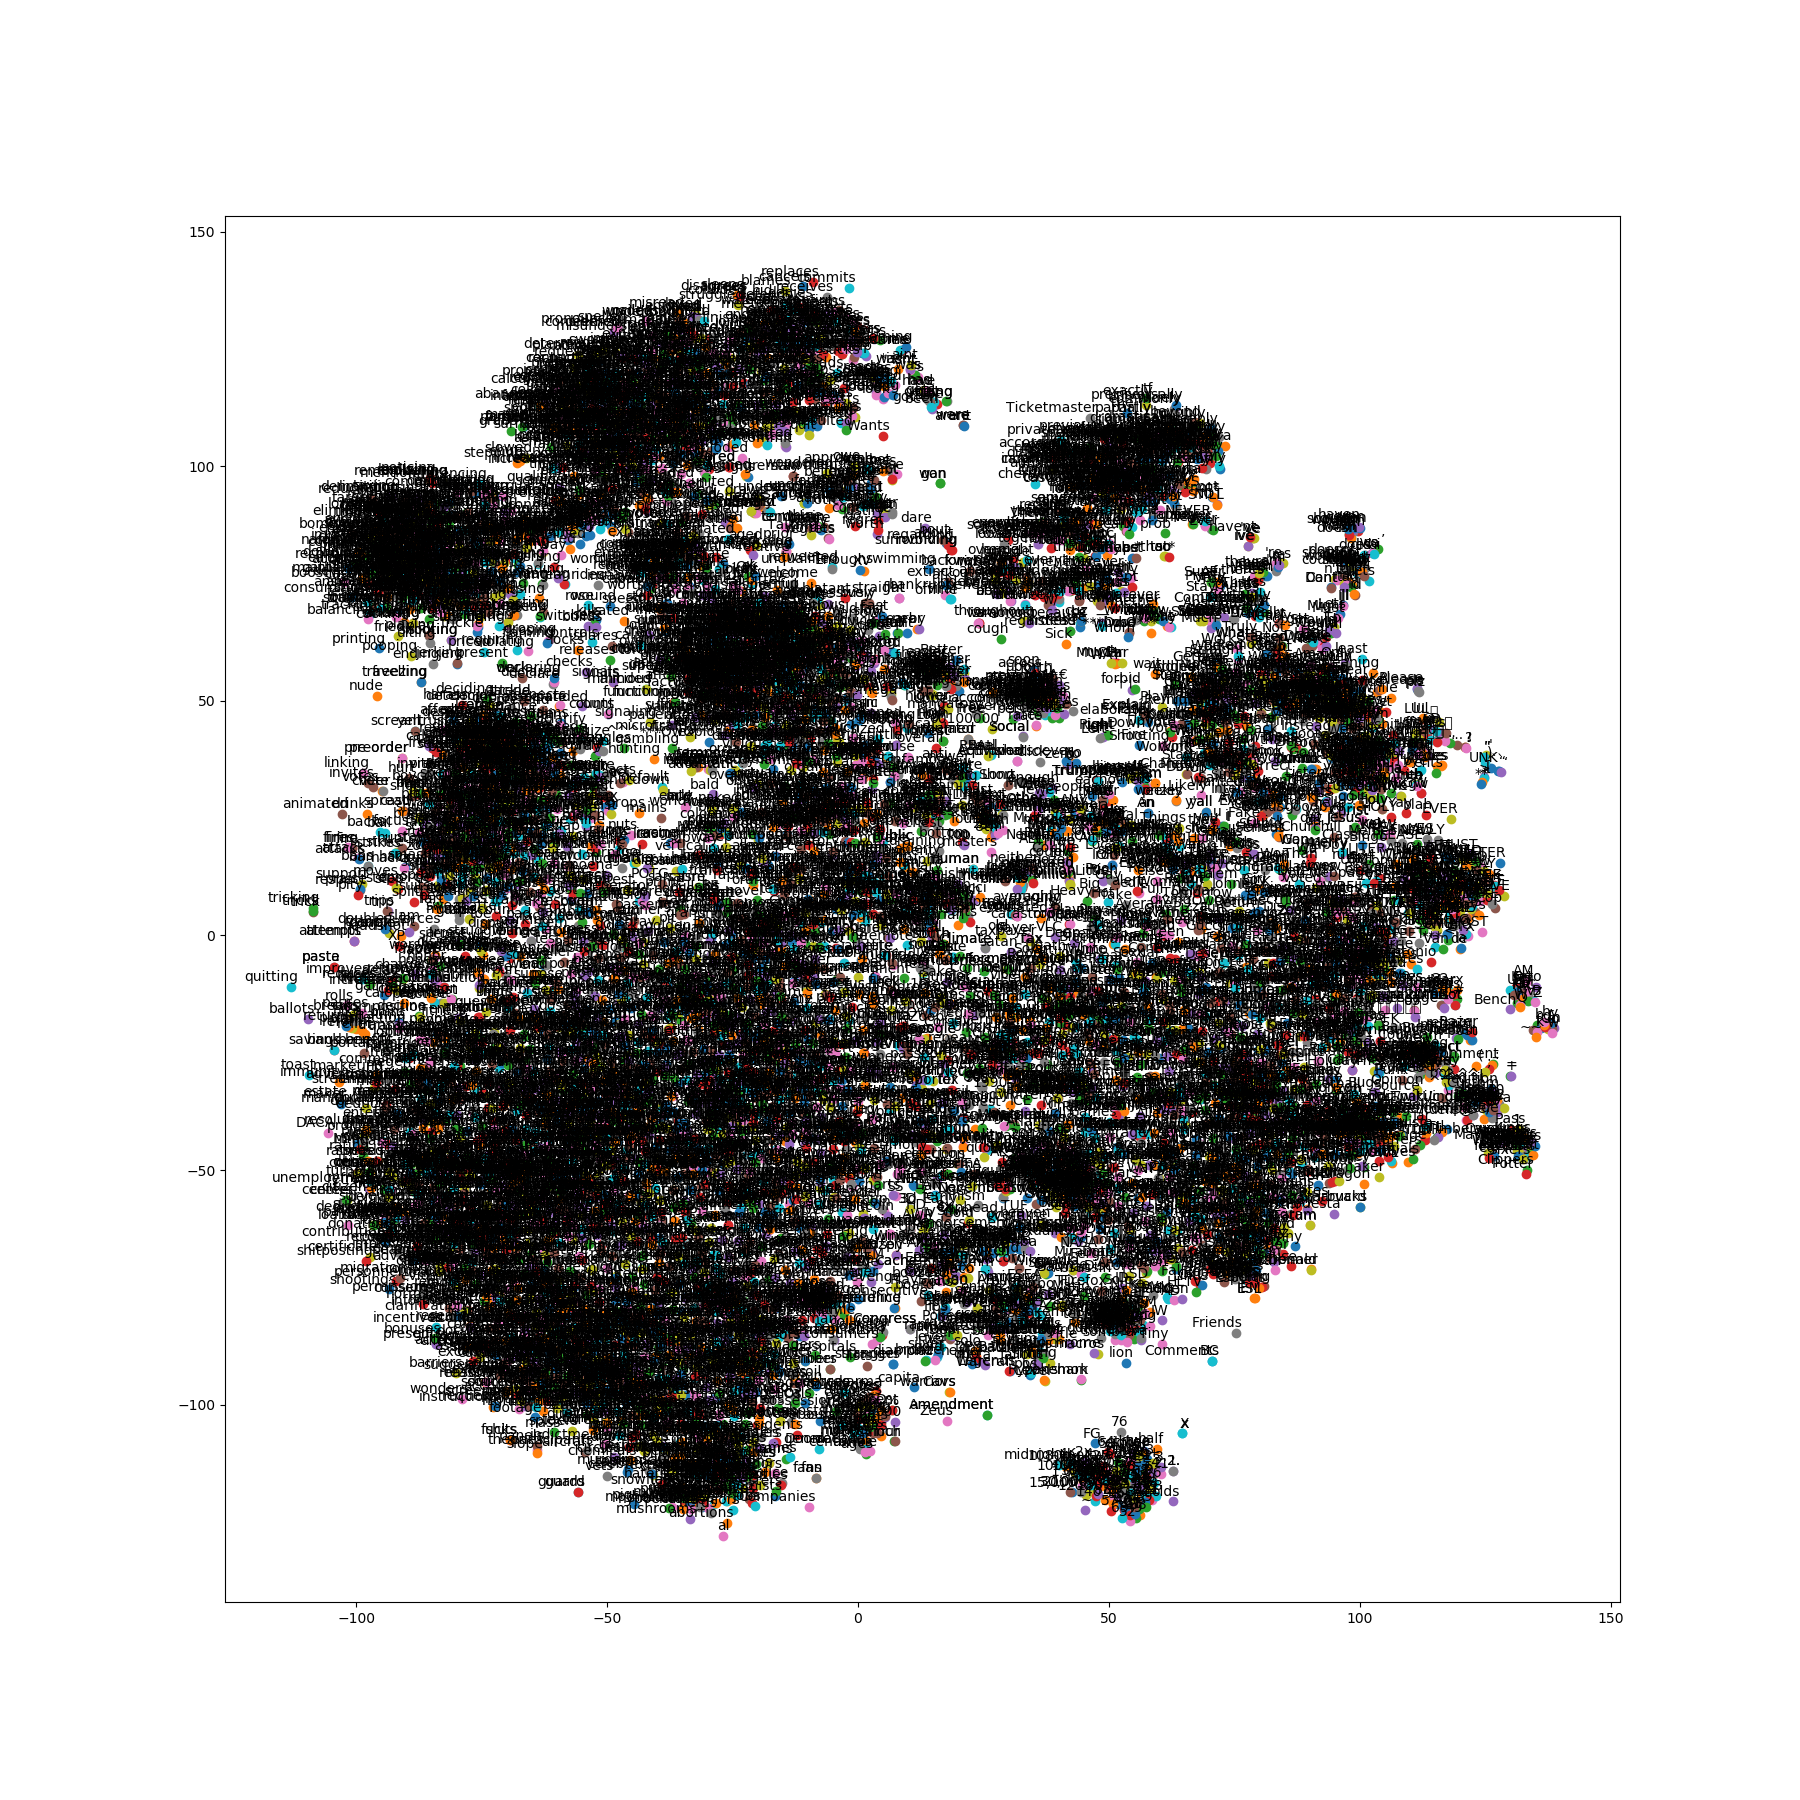
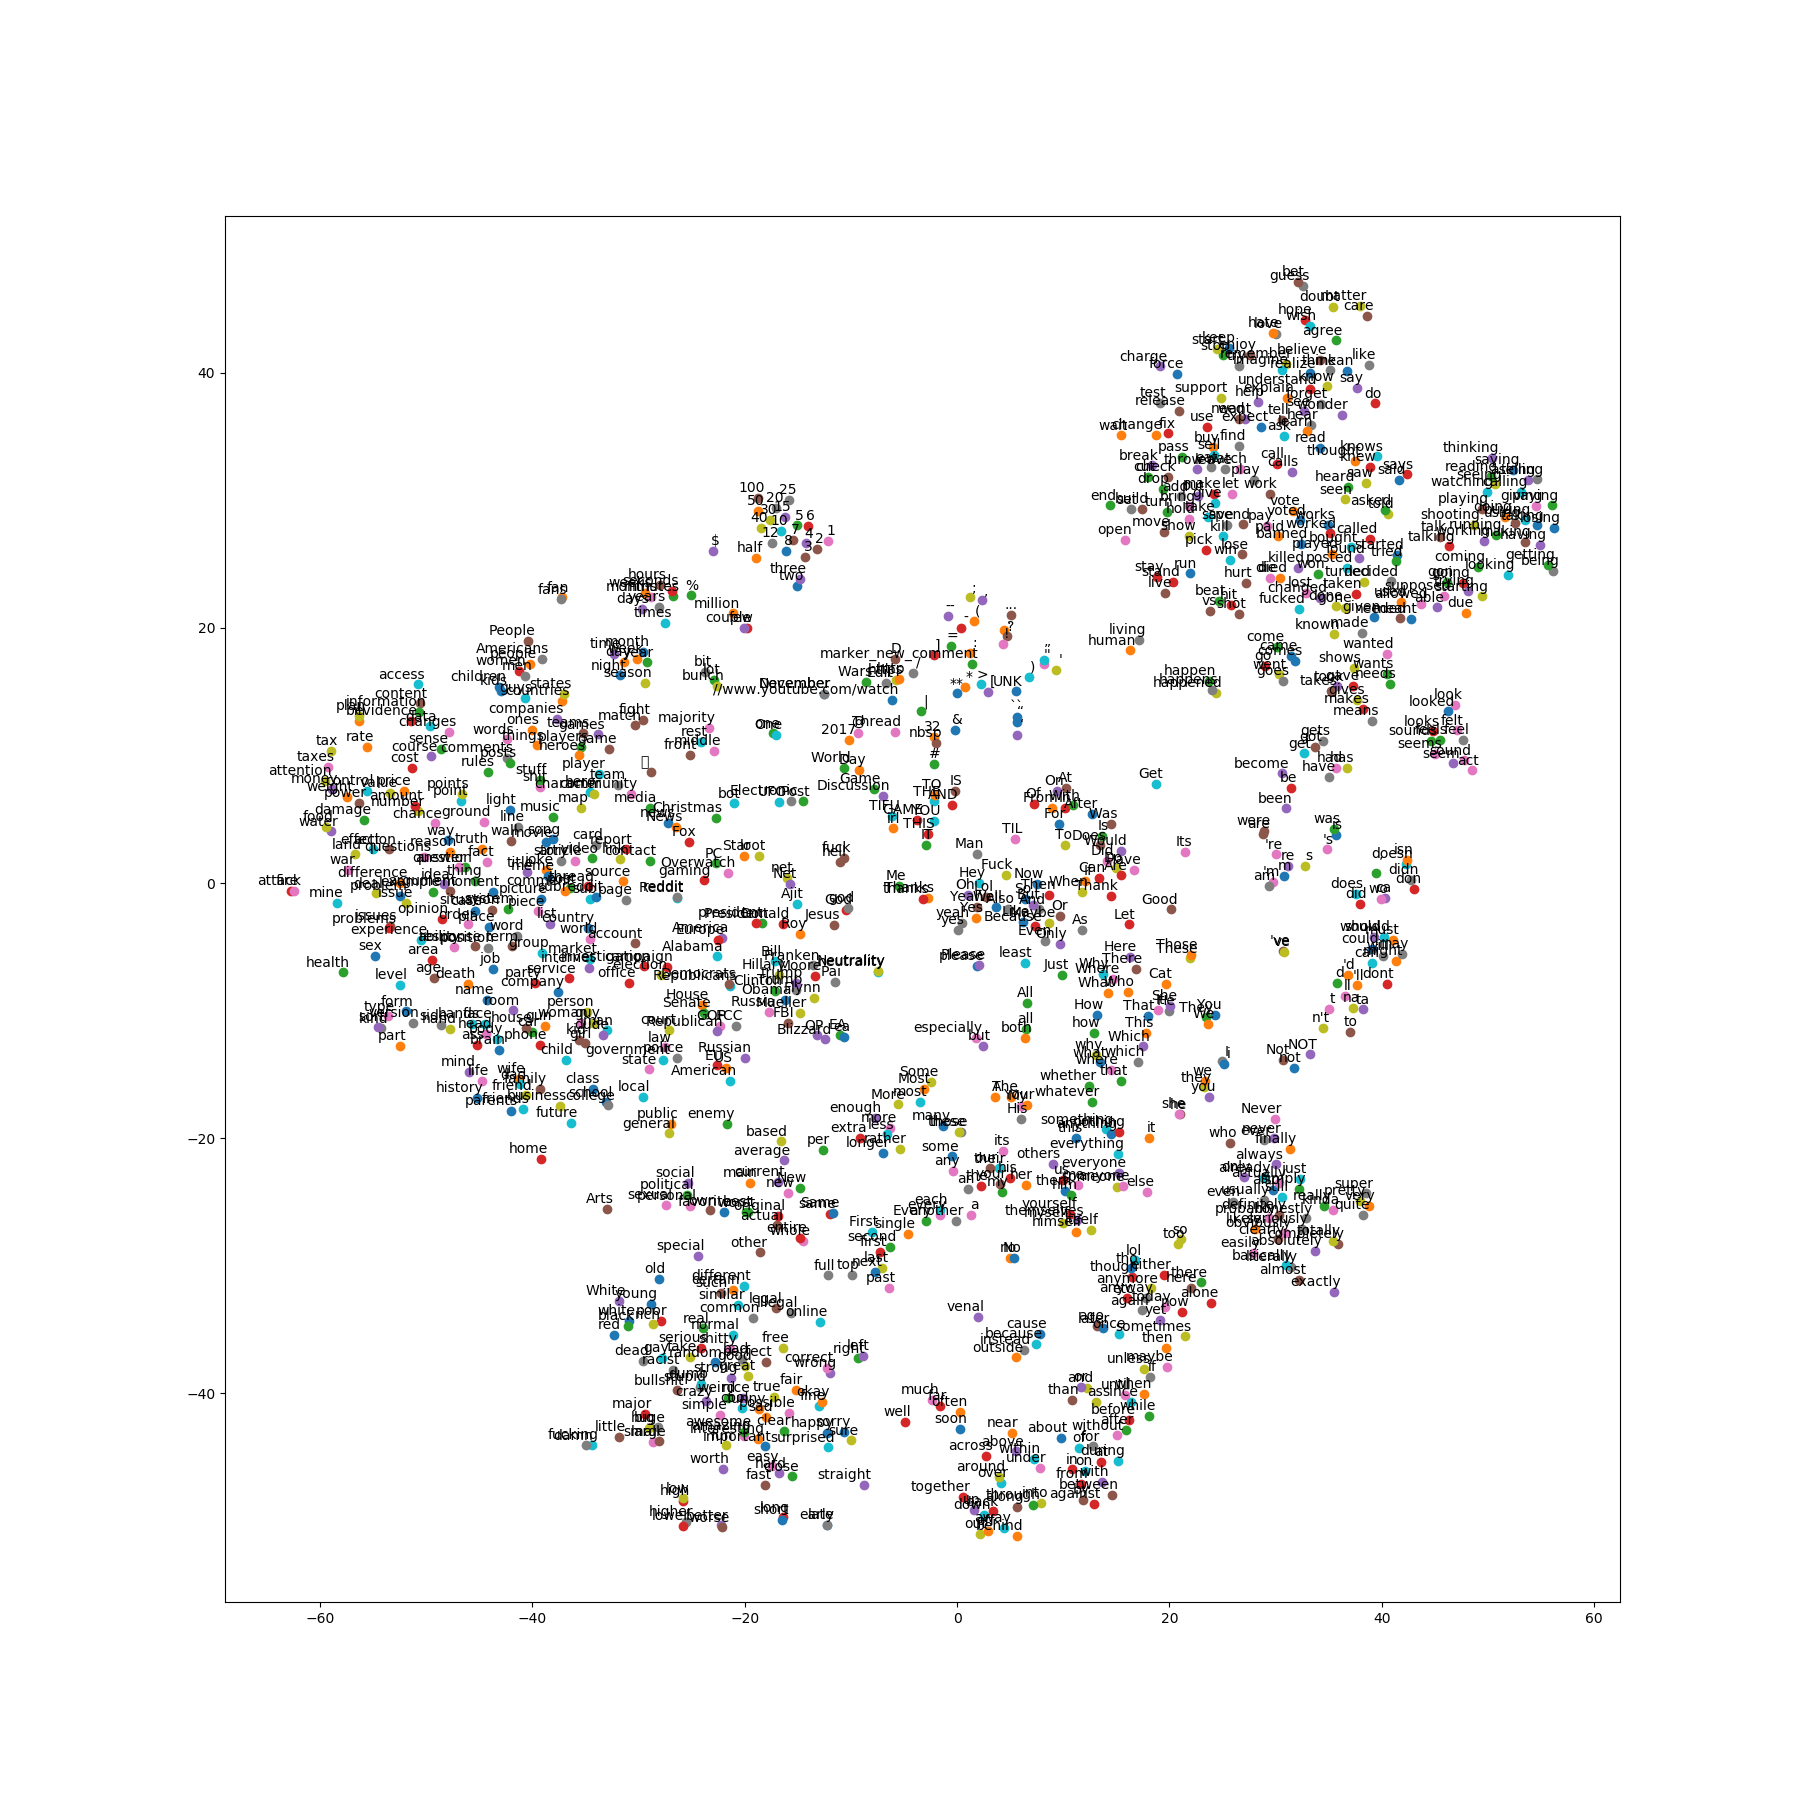
testing code

diff --git a/lstm_model.py b/lstm_model.py
@@ -23,17 +23,13 @@ tab_marker = ' marker_new_paragraph '
 return_marker = ' marker_return '
 count, data, dictionary, reverse_dictionary, final_embeddings = None, None, None, None, None
 
-n_input = 50
+n_input = 25
 n_hidden = 512
-training_iters = 10000
+training_iters = 100000
 learning_rate = 0.001
-display_step = 10
+display_step = 100
 vocab_size = 128
 full_input_size = n_input*vocab_size
-
-
-
-
 
 def get_training_data(data, dictionary, embeddings_df):
     training_data = []
@@ -60,15 +56,15 @@ def get_features_from_inputs(tokenized_lists):
         print()
 
 def load_models():
-    with open('models2/count.plk', 'rb') as f:
+    with open('models/count.plk', 'rb') as f:
         count = pickle.load(f)
-    with open('models2/data.plk', 'rb') as f:
+    with open('models/data.plk', 'rb') as f:
         data = pickle.load(f)
-    with open('models2/dictionary.plk', 'rb') as f:
+    with open('models/dictionary.plk', 'rb') as f:
         dictionary = pickle.load(f)
-    with open('models2/reverse_dictionary.plk', 'rb') as f:
+    with open('models/reverse_dictionary.plk', 'rb') as f:
         reverse_dictionary = pickle.load(f)
-    with open('models2/final_embeddings.plk', 'rb') as f:
+    with open('models/final_embeddings.plk', 'rb') as f:
         final_embeddings = pickle.load(f)
     return count, data, dictionary, reverse_dictionary, final_embeddings
 
@@ -114,7 +110,7 @@ def test_sentence(input_str, dictionary, max_length = 50):
         pass
         #saver.restore(sess, "models/lstm_model")
 
-def generate_inputs(embeddings_df, data, dictionary, max_len = ):
+def generate_inputs(embeddings_df, data, dictionary, max_len = 1):
     pass
 
 def get_model(x, weights, biases):
@@ -123,6 +119,10 @@ def get_model(x, weights, biases):
     rnn_cell = rnn.MultiRNNCell([rnn.BasicLSTMCell(n_hidden),rnn.BasicLSTMCell(n_hidden), rnn.BasicLSTMCell(n_hidden)])
     outputs, states = rnn.static_rnn(rnn_cell, x, dtype=tf.float32)
     return tf.matmul(outputs[-1], weights['out']) + biases['out']
+
+def convert_word_list_to_training_data(word_list, embeddings_df, count, data, dictionary, reverse_dictionary):
+    training_data = []
+    return [embeddings_df.loc[i] for i in word_list]
 
 def train_model(training_data, embeddings_df, count, data, dictionary, reverse_dictionary):
     weights = {
@@ -153,20 +153,34 @@ def train_model(training_data, embeddings_df, count, data, dictionary, reverse_d
         while step < training_iters:
             #random_start = random.randint(1, len(data)-n_input-1)
             #symbols_in_keys = [data[i] for i in range(random_start, random_start + n_input)]
-            random_start = random.randint(1, len(training_data) - n_input - 1)
-            symbols_in_keys = [training_data[i] for i in range(random_start, random_start + n_input)]
-            in_np_array = np.array(symbols_in_keys)
+
+            # random_start = random.randint(1, len(training_data) - n_input - 1)
+            # symbols_in_keys = [training_data[i] for i in range(random_start, random_start + n_input)]
+            # in_np_array = np.array(symbols_in_keys)
+            # symbols_in = np.reshape(in_np_array, (-1, full_input_size, 1))
+
+            random_start = random.randint(1, len(data) - n_input - 1)
+            symbols_in_keys = [data[i] for i in range(random_start, random_start + n_input)]
+            in_np_array = np.array(convert_word_list_to_training_data(symbols_in_keys, embeddings_df, count, data, dictionary, reverse_dictionary))
             symbols_in = np.reshape(in_np_array, (-1, full_input_size, 1))
 
             #symbols_out = np.reshape(embeddings_df.loc[data[random_start + n_input]].values, (1, -1))
-            symbols_out = np.reshape(np.array(training_data[random_start + n_input]), [1, -1])
-            _, acc, loss, onehot_pred = session.run([optimizer, accuracy, cost, model], \
-                                                    feed_dict={x: symbols_in, y: symbols_out})
+            #symbols_out = np.reshape(np.array(training_data[random_start + n_input]), [1, -1])
+            symbols_out = np.reshape(embeddings_df.loc[data[random_start + n_input]].values, (1, -1))
 
+            _, acc, loss, pred = session.run([optimizer, accuracy, cost, model], \
+                                                    feed_dict={x: symbols_in, y: symbols_out})
             loss_total += loss
             acc_total += acc
-            if step%display_step == 0:
+            if step%display_step == 0 or acc > 0:
                 print(step, acc_total/display_step, loss_total/display_step)
+                closest_words = get_closest_words_to_vector(np.array(pred[0]), embeddings_df.copy())
+                closest_word = closest_words.sort_values('similarity').head(1).index.values[0]
+                print('input sentence:', ' '.join([reverse_dictionary[i] for i in data[random_start:random_start + n_input]]))
+                print('picked {0} instead of {1}:'.format(reverse_dictionary[closest_word], reverse_dictionary[data[random_start + n_input]]))
+                print('top 10 word picks:', [reverse_dictionary[i] for i in closest_words.sort_values('similarity').head(10).index.values])
+                print()
+            if step%display_step == 0:
                 loss_total = 0
                 acc_total = 0
 

diff --git a/word2vec.py b/word2vec.py
@@ -275,20 +275,25 @@ def main():
         save_vocad(data, count, dictionary, reverse_dictionary)
         del vocab
 
-    print('Most common words (+UNK)', count[:5])
-    print('Sample data', data[:10], [reverse_dictionary[i] for i in data[:10]])
+    try:
+        with open('models/final_embeddings.plk', 'rb') as f:
+            final_embeddings = pickle.load(f)
+    except:
+        print('Most common words (+UNK)', count[:5])
+        print('Sample data', data[:10], [reverse_dictionary[i] for i in data[:10]])
 
-    batch, labels = generate_batch(batch_size=8, num_skips=2, skip_window=1, data=data)
-    for i in range(8):
-        print(batch[i], reverse_dictionary[batch[i]],
-              '->', labels[i, 0], reverse_dictionary[labels[i, 0]])
-    final_embeddings = run_model(reverse_dictionary=reverse_dictionary,data=data)
+        batch, labels = generate_batch(batch_size=8, num_skips=2, skip_window=1, data=data)
+        for i in range(8):
+            print(batch[i], reverse_dictionary[batch[i]],
+                  '->', labels[i, 0], reverse_dictionary[labels[i, 0]])
+        final_embeddings = run_model(reverse_dictionary=reverse_dictionary,data=data)
 
-    with open('models/final_embeddings.plk', 'wb') as f:
-        pickle.dump(final_embeddings, f)
+        with open('models/final_embeddings.plk', 'wb') as f:
+            pickle.dump(final_embeddings, f)
 
+    print('making graph')
     tsne = TSNE(perplexity=30, n_components=2, init='pca', n_iter=10000)
-    plot_only = 10000
+    plot_only = 1000
     low_dim_embs = tsne.fit_transform(final_embeddings[:plot_only, :])
     labels = [reverse_dictionary[i] for i in range(plot_only)]
     plot_with_labels(low_dim_embs, labels,  'tsne.png')
